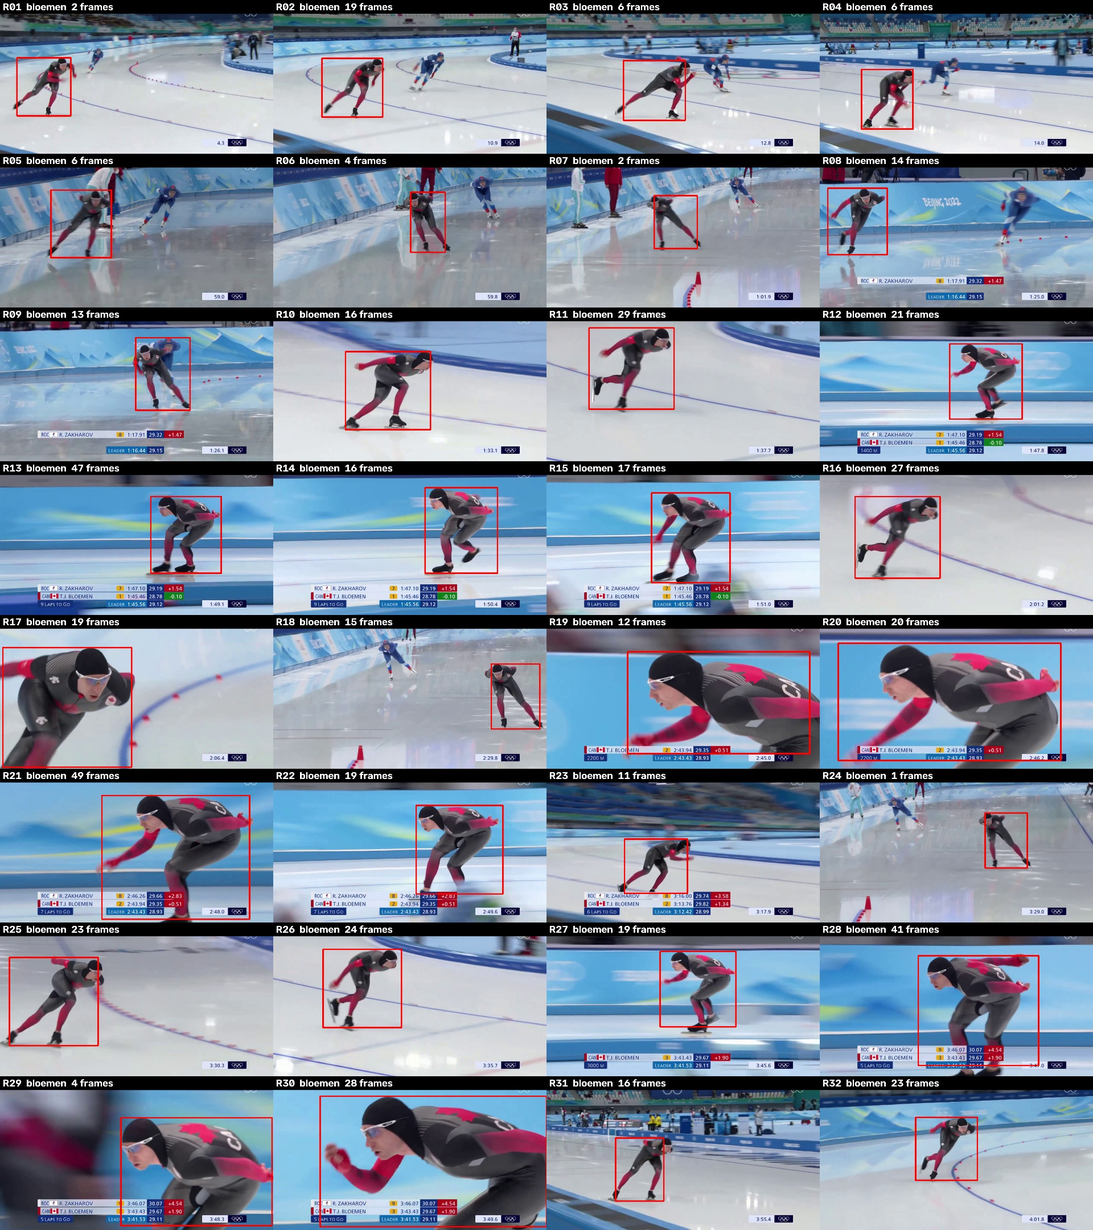
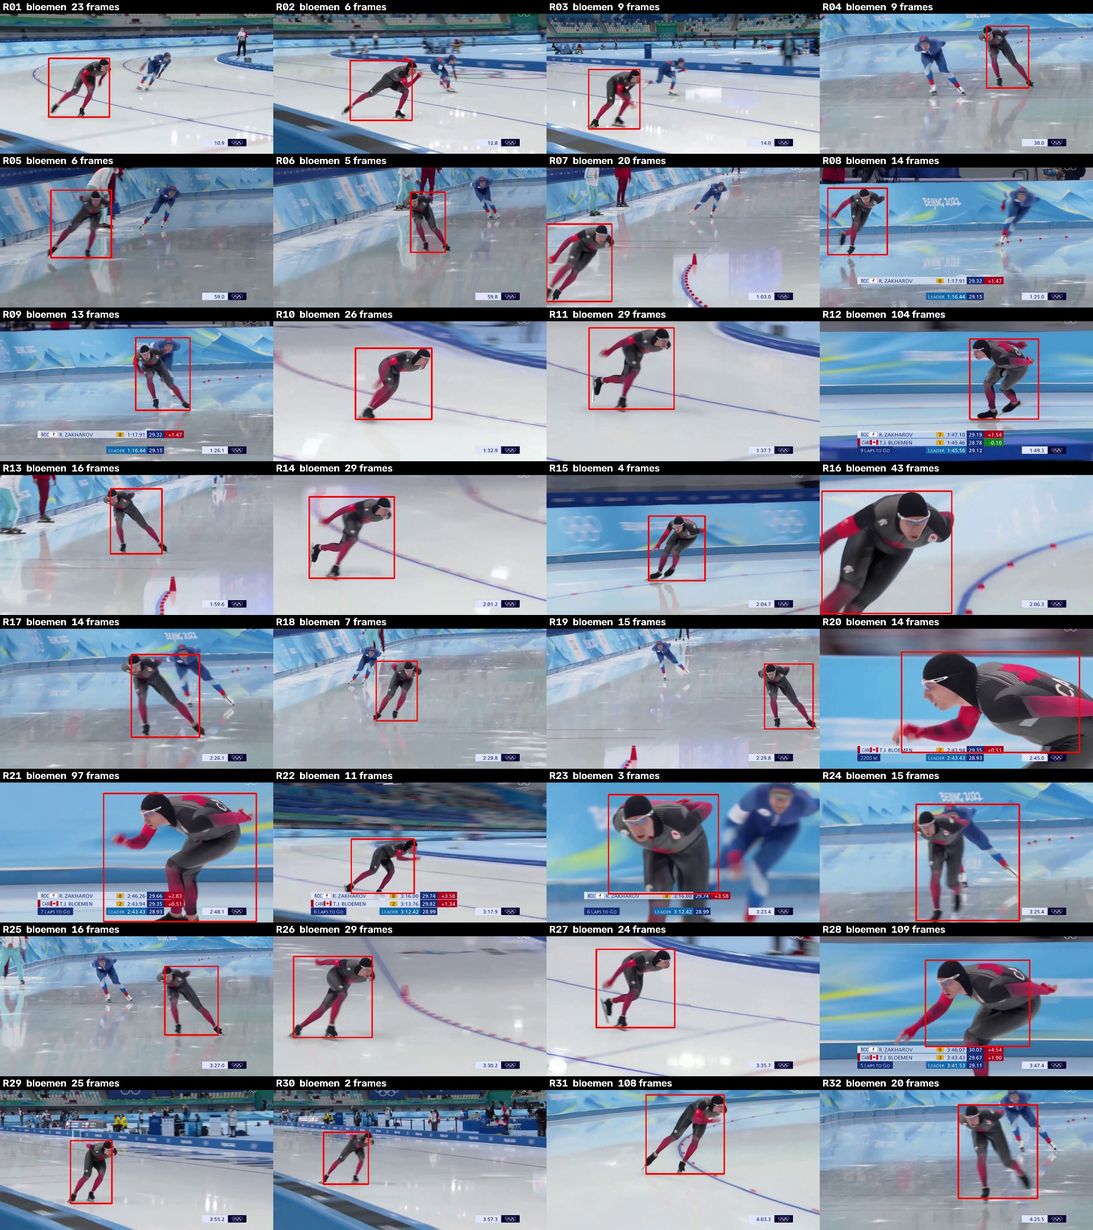
11/19: short identity gaps bridged (Bergsma test 168 to 697 frames), round 2 run once (89.8% on corner and straight scores averaged, target met, but only 16 straight frames; boundaries too little data), close-ups on this broadcast almost all in corners; next: check another broadcast; hours (130.0), 

diff --git a/phase_model.py b/phase_model.py
@@ -13,9 +13,16 @@ Scoring: share of frames correct (target 80%), and corner entries/exits found
 within 15 frames (target 85%; scorable only where the test frames cover 80%
 of the 15 frames each side).
 
+Round 2 rules (fixed 11/17 and 11/19, in the same doc): frames scored as the
+average of the corner and straight scores (target 85%); a boundary is also
+scorable with one side covered, and then found if no frame on that side more
+than 15 frames from the mark has the wrong label; stretches continue through
+misses of up to 5 frames (skater_pose.GAP).
+
 Usage:
     python -m phase_model --loso      # pair 10: train on one skater, test on the other (allowed for choices)
     python -m phase_model --round 1   # train on pair 10, test once on pair 09 (refuses to run twice)
+    python -m phase_model --round 2   # train on pair 10 and Bloemen, test once on pair 06
 """
 
 import os
@@ -34,16 +41,21 @@ DATA = {  # pair, skater -> (pose file, researcher's stretch check)
     ("pair10_vanderpoel", "Bart Swings"): ("phase9/pose_pair10_vanderpoel_swings_v1.csv", "phase9/runs_pair10_vanderpoel.csv"),
     ("pair10_vanderpoel", "Nils van der Poel"): ("phase9/pose_pair10_vanderpoel_poel_v1.csv", "phase9/runs_pair10_vanderpoel.csv"),
     ("pair09_bloemen", "Ted-Jan Bloemen"): ("phase9/pose_pair09_bloemen_bloemen.csv", "phase9/runs_pair09_bloemen.csv"),
+    ("pair06_bergsma", "Jorrit Bergsma"): ("phase9/pose_pair06_bergsma_bergsma.csv", "phase9/runs_pair06_bergsma.csv"),
+    ("pair06_bergsma", "Seitaro Ichinohe"): ("phase9/pose_pair06_bergsma_ichinohe.csv", "phase9/runs_pair06_bergsma.csv"),
 }
 ROUNDS = {1: {"train": [("pair10_vanderpoel", "Bart Swings"), ("pair10_vanderpoel", "Nils van der Poel")],
-              "test": [("pair09_bloemen", "Ted-Jan Bloemen")]}}
+              "test": [("pair09_bloemen", "Ted-Jan Bloemen")], "gap": 0},
+          2: {"train": [("pair10_vanderpoel", "Bart Swings"), ("pair10_vanderpoel", "Nils van der Poel"),
+                        ("pair09_bloemen", "Ted-Jan Bloemen")],
+              "test": [("pair06_bergsma", "Jorrit Bergsma"), ("pair06_bergsma", "Seitaro Ichinohe")], "gap": 5}}
 
 
-def load(pair, skater):
+def load(pair, skater, gap=0):
     pose, runs = DATA[(pair, skater)]
     marks = pd.read_csv(MARKS)
     marks = marks[(marks.pair == pair) & (marks.skater == skater) & (marks.use == "yes")]
-    d = usable(pd.read_csv(pose), marks)
+    d = usable(pd.read_csv(pose), marks, gap)
     r = pd.read_csv(runs)
     r = r[(r.skater == skater) & (r.identity == "ok")]
     keep = np.zeros(len(d), bool)
@@ -87,19 +99,29 @@ def smooth(frames, runs, pred):
     return np.concatenate(out)
 
 
-def boundaries(frames, pred, marks):
+def boundaries(frames, pred, marks, one_sided=False):
+    """Two-sided (round 1): both sides covered, found if the label changes the right way within TOL.
+    One-sided (round 2 adds): one side covered, found if no frame on that side beyond TOL has the wrong label."""
     have = dict(zip(frames, pred))
     rows = []
     for _, m in marks[marks.event.isin(["entry", "exit"])].iterrows():
         f = int(m.frame)
-        before = [have.get(x) for x in range(f - TOL, f)]
-        after = [have.get(x) for x in range(f, f + TOL)]
-        if sum(x is not None for x in before) < 0.8 * TOL or sum(x is not None for x in after) < 0.8 * TOL:
-            continue
         want = ("straight", "corner") if m.event == "entry" else ("corner", "straight")
-        seq = [have.get(x) for x in range(f - TOL, f + TOL + 1)]
-        found = any(seq[i] == want[0] and seq[i + 1] == want[1] for i in range(len(seq) - 1))
-        rows.append({"frame": f, "event": m.event, "found": found})
+        cov_b = sum(have.get(x) is not None for x in range(f - TOL, f)) >= 0.8 * TOL
+        cov_a = sum(have.get(x) is not None for x in range(f, f + TOL)) >= 0.8 * TOL
+        if cov_b and cov_a:
+            seq = [have.get(x) for x in range(f - TOL, f + TOL + 1)]
+            found = any(seq[i] == want[0] and seq[i + 1] == want[1] for i in range(len(seq) - 1))
+            rows.append({"frame": f, "event": m.event, "sides": 2, "found": found})
+        elif one_sided and (cov_b or cov_a):
+            # the covered side, out to the next mark: frames more than TOL from this mark must have that side's label
+            nxt = marks.frame[marks.frame > f].min() if cov_a else marks.frame[marks.frame < f].max()
+            span = range(f + TOL, int(nxt) if pd.notna(nxt) else f + 300) if cov_a else range(int(nxt) if pd.notna(nxt) else f - 300, f - TOL)
+            side = want[1] if cov_a else want[0]
+            labs = [have[x] for x in span if x in have]
+            if not labs:
+                continue
+            rows.append({"frame": f, "event": m.event, "sides": 1, "found": all(x == side for x in labs)})
     return pd.DataFrame(rows)
 
 
@@ -109,20 +131,39 @@ def fit(train):
     return HistGradientBoostingClassifier(random_state=0).fit(X, train.label, sample_weight=w), list(X.columns)
 
 
-def evaluate(model, cols, test, marks):
+def evaluate(model, cols, test, marks, one_sided=False):
     pred = model.predict(test[cols])
     sm = smooth(test.frame.values, test.run.values, pred)
-    acc = float((sm == test.label.values).mean())
-    b = boundaries(test.frame.values, sm, marks)
-    return {"frames": len(test), "frames_correct": round(acc, 3), "raw_correct": round(float((pred == test.label.values).mean()), 3),
-            "boundaries_scorable": len(b), "boundaries_found": int(b.found.sum()) if len(b) else 0,
-            "boundary_share": round(float(b.found.mean()), 3) if len(b) else None}
+    y = test.label.values
+    acc = float((sm == y).mean())
+    per = {lab: round(float((sm[y == lab] == lab).mean()), 3) if (y == lab).any() else None for lab in ("corner", "straight")}
+    b = boundaries(test.frame.values, sm, marks, one_sided)
+    return {"frames": len(test), "labels": {lab: int((y == lab).sum()) for lab in ("corner", "straight")},
+            "frames_correct": round(acc, 3), "corner_correct": per["corner"], "straight_correct": per["straight"],
+            "balanced_correct": round(np.mean([v for v in per.values() if v is not None]), 3),
+            "raw_correct": round(float((pred == y).mean()), 3),
+            "boundaries_scorable": len(b), "boundaries_two_sided": int((b.sides == 2).sum()) if len(b) else 0,
+            "boundaries_found": int(b.found.sum()) if len(b) else 0,
+            "boundary_share": round(float(b.found.mean()), 3) if len(b) else None,
+            "boundary_verdict": "too little data" if len(b) < 10 else ("met" if b.found.mean() >= 0.85 else "not met")}
 
 
-def build(keys):
+def pooled(rs):
+    """Test skaters together (a pair's skaters share frame numbers, so counts are added, not frames merged)."""
+    n = {lab: sum(r["labels"][lab] for r in rs) for lab in ("corner", "straight")}
+    per = {lab: round(sum((r[f"{lab}_correct"] or 0) * r["labels"][lab] for r in rs) / n[lab], 3) if n[lab] else None
+           for lab in ("corner", "straight")}
+    sc, fo = sum(r["boundaries_scorable"] for r in rs), sum(r["boundaries_found"] for r in rs)
+    return {"frames": sum(r["frames"] for r in rs), "labels": n, "corner_correct": per["corner"],
+            "straight_correct": per["straight"], "balanced_correct": round(np.mean([v for v in per.values() if v is not None]), 3),
+            "boundaries_scorable": sc, "boundaries_found": fo, "boundary_share": round(fo / sc, 3) if sc else None,
+            "boundary_verdict": "too little data" if sc < 10 else ("met" if fo / sc >= 0.85 else "not met")}
+
+
+def build(keys, gap=0):
     fs, ms = [], {}
     for pair, sk in keys:
-        d, marks = load(pair, sk)
+        d, marks = load(pair, sk, gap)
         f = features(d)
         f["skater"] = sk
         fs.append(f); ms[sk] = marks
@@ -143,12 +184,15 @@ def main():
         out = f"phase9/round{args.round}_result.json"
         if os.path.exists(out):
             raise SystemExit(f"{out} exists: round {args.round} was already run once")
-        train, _ = build(ROUNDS[args.round]["train"])
-        test, marks = build(ROUNDS[args.round]["test"])
+        cfg = ROUNDS[args.round]
+        train, _ = build(cfg["train"], cfg["gap"])
+        test, marks = build(cfg["test"], cfg["gap"])
         model, cols = fit(train)
         res = {"round": args.round, "train_frames": len(train)}
         for sk in test.skater.unique():
-            res[sk] = evaluate(model, cols, test[test.skater == sk], marks[sk])
+            res[sk] = evaluate(model, cols, test[test.skater == sk], marks[sk], one_sided=args.round >= 2)
+        if args.round >= 2:
+            res["all test skaters"] = pooled([res[sk] for sk in test.skater.unique()])
         json.dump(res, open(out, "w"), indent=2)
         print(json.dumps(res, indent=2))
 

diff --git a/skater_pose.py b/skater_pose.py
@@ -75,6 +75,7 @@ MAX_CANDS = 4        # largest candidate boxes per frame that get pose
 MIN_BOX_H = 60
 PAD = 0.15
 MIN_RUN = 15
+GAP = 5              # 11/19: misses of up to GAP frames do not break a stretch if the same person returns
 CHECK_EVERY = 300
 
 
@@ -104,14 +105,17 @@ def short(name):
     return name.split()[-1].lower()
 
 
-def usable(d, marks):
-    """Frames the phase model uses: inside the marked race, live, normal size, a steady track."""
+def usable(d, marks, gap=GAP):
+    """Frames the phase model uses: inside the marked race, live, normal size, a steady track
+    (MIN_RUN frames where the skater was found; misses of up to `gap` frames bridged, gap=0 as in round 1)."""
     from doublepush_measures import MIN_LEG_PX
     d = d.copy()
-    d["run"] = (d.track_id != d.track_id.shift()).cumsum()
-    d["run_len"] = d.groupby("run").frame.transform("size")
+    tid = d.track_id.ffill(limit=gap) if gap else d.track_id
+    d["run"] = (tid != tid.shift()).cumsum()
+    real = d.track_id.notna()
+    d["run_len"] = real.groupby(d.run).transform("sum")
     ok = d.frame.between(marks.frame.min(), marks.frame.max()) & d.live & (d.leg_px >= MIN_LEG_PX)
-    return d[ok & d.track_id.notna() & (d.run_len >= MIN_RUN)]
+    return d[ok & real & (d.run_len >= MIN_RUN)]
 
 
 def run_sheet(pair):

diff --git a/docs/CAPABILITIES_PHASE9.md b/docs/CAPABILITIES_PHASE9.md
@@ -15,7 +15,7 @@
 > **9B:** How do elite long track skaters pace their races across distances,
 > skaters and seasons, measured from lap times read from race broadcasts?
 
-## Status (11/18): Pacing database has all 12 skaters of the Beijing 2022 5000 m (154 laps, 2 finishes missing, all checked). Label rules and model targets fixed. Pair 10 marked: Swings (start and 15 corners usable) and van der Poel (whole race). Identity confirmed per stretch (2,209 training frames). Bloemen (pair 09, round 1 test race) marked. Old labels audited (89.8% of frames agree). Round 1 run once: 98.8% of frames (target 80% met, but 92% of test frames were corners; straights 88.9%); boundaries too little data. Round 2 rules fixed; test pair 06 marked (Bergsma whole race, Ichinohe to about lap 9), identity check pending.
+## Status (11/19): Pacing database has all 12 skaters of the Beijing 2022 5000 m (154 laps, 2 finishes missing, all checked). Label rules and model targets fixed. Pair 10 marked: Swings (start and 15 corners usable) and van der Poel (whole race). Identity confirmed per stretch (2,209 training frames). Bloemen (pair 09, round 1 test race) marked. Old labels audited (89.8% of frames agree). Round 1 run once: 98.8% of frames (target 80% met, but 92% of test frames were corners; straights 88.9%); boundaries too little data. Round 2 run once: 89.8% (average of corner and straight scores, target 85% met) but only 16 straight frames; boundaries too little data. Next: another broadcast for straight close-ups.
 
 ## Why This Phase
 - **The same problem kept returning.** Automatic corner/straight detection
@@ -196,6 +196,27 @@ tested on Bloemen (1,124 frames, identity confirmed on all 51 stretches).
   cutoff and every miss restarts the 15-frame steady-track count. Allowing
   gaps of up to 5 frames would give Bergsma 697 and Bloemen 1,635 (from
   1,174). To be decided by the researcher before round 2 is run.
+- **Decided 11/19, before round 2:** a stretch continues through misses of up
+  to 5 frames (1/6 s) when the same tracked person is found again; the missed
+  frames are not used, and a stretch needs 15 frames where the skater was
+  actually found. Stretch sheets for pair 06 and pair 09 are remade under this
+  rule and checked again by the researcher; round 1's stretches are kept as
+  its record.
+
+**Round 2 result (11/19, run once):** trained on pair 10 and Bloemen (3,552
+frames), tested on Bergsma (657 frames; all 33 stretches confirmed). Ichinohe
+had no test data: all 9 of his stretches had the box on Bergsma.
+- Frames: average of corner and straight scores **89.8%**, target 85% **met**.
+  Corners 98.3% (630 of 641), straights 81.2% (13 of **16**). The straight half
+  rests on about half a second of one straight, so straight detection is
+  not really tested.
+- Boundaries: 3 scorable (all one-sided), all found; **too little data**.
+- **Across rounds 1 and 2:** corners 98-99% on two unseen skaters. Close-ups
+  on this broadcast are almost all in corners (1,034 vs 90 and 641 vs 16
+  frames), so straights and boundaries cannot be tested well at the 150 px
+  size rule.
+- **Round 3 direction (decided 11/19):** check whether another broadcast films
+  straights closer before changing the size rule or accepting the limit.
 
 ### 9c: Set-Down Detection Inside the Model
 - Re-test the Phase 8 counter only inside frames the model calls straight.
@@ -278,6 +299,9 @@ tested on Bloemen (1,124 frames, identity confirmed on all 51 stretches).
 | 11/18 | Ichinohe exits with no entry (entry off camera) would have made a corner count as straight | Frames between marks that do not fit together left unlabelled |
 | 11/18 | Two Ichinohe entries marked when he came back into view mid-corner | Flagged unclear, not used |
 | 11/18 | Bergsma's orange reads as hue 3-4 on this broadcast, outside the orange range | Range widened to 0-17; Bergsma found in 25% of frames, up from 13% |
+| 11/19 | Bergsma's identity flickered near the colour cutoff, so most stretches never reached 15 frames in a row | Stretches continue through misses of up to 5 frames |
+| 11/19 | Ichinohe's white colour check picked up Bergsma in all 9 stretches | Ichinohe excluded; no test data |
+| 11/19 | Close-ups almost all in corners, so straights and boundaries barely appear in tests | Look for broadcasts that film straights closer |
 
 ## Rounds (Running Log)
 

diff --git a/docs/HOURS.md b/docs/HOURS.md
@@ -89,4 +89,5 @@
 | **11/16** | Wrote down the round 1 setup for the phase model before training (training and test frames, inputs, model, scoring, one run only). Built the model and checked it on pair 10 alone by training on one skater and testing on the other: 82.9% of frames correct on Swings when trained on van der Poel, 69.5% the other way round (trained on only 397 frames). Only 2-3 corner boundaries per skater can be scored, because close-ups rarely cover both sides of an entry or exit, so the boundary target may come out as too little data. Changed the skater identity check to read suit colour only inside the torso, and restarted tracking of the test race. | 0.5 hrs |
 | **11/17** | Confirmed skater identity on all 51 of Bloemen's stretches and ran round 1 of the phase model once (trained on pair 10, tested on Bloemen): 98.8% of frames correct (target 80% met), but 92% of the test frames were corners, so always answering corner would score 92%; the model got 88.9% of straight frames right (80 of 90, from only 8 straights) and 99.6% of corner frames. No corner boundary could be scored (close-ups never covered both sides of an entry or exit), so the boundary target is reported as too little data. Fixed the round 2 changes before running it: frames scored as the average of the corner and straight scores, boundaries scorable with one side covered, Bloemen added to training and a new test pair (Bergsma and Ichinohe, pair 06). | 1.0 hr |
 | **11/18** | Marked both skaters of the round 2 test pair (Beijing pair 06): Bergsma's whole race (marked finish 0.2 s from the official time; one corner entry keyed as a start and corrected), and Ichinohe to about lap 9, leaving out entries he was off camera for and the late laps where he was only shown small. Labels are now left out between marks that do not fit together (an exit after an exit), instead of being guessed; this changed only Ichinohe's labels. Two of Ichinohe's entries, marked when he came back into view partway through a corner, were flagged unclear. Found that Bergsma's orange read as a redder hue on this broadcast and fixed the colour range (Bergsma found in 25% of frames, up from 13%). | 1.5 hrs |
-| **Total** | **Cumulative Engineering Time** | **129.0 hrs** |
+| **11/19** | Decided to let a tracked stretch continue through misses of up to 5 frames (1/6 s), which raised Bergsma's test frames from 168 to 697, and checked the remade stretch sheets: all 33 of Bergsma's and all 53 of Bloemen's were right, while all 9 of Ichinohe's had the box on Bergsma, so Ichinohe has no test data. Ran round 2 once (trained on pair 10 and Bloemen, tested on Bergsma): the average of the corner and straight scores was 89.8% (target 85% met), but the straights were only 16 frames, so straight detection is not really tested; 3 boundaries were scorable (too little data). Across both rounds, close-ups on this broadcast are almost all in corners. Decided to check whether another broadcast films straights closer before changing any rules. | 1.0 hr |
+| **Total** | **Cumulative Engineering Time** | **130.0 hrs** |

diff --git a/docs/JOURNAL.md b/docs/JOURNAL.md
@@ -1350,3 +1350,20 @@
   - The Phase 6 detector comparison needs torso and knee angles, which the per-skater pose does not save yet; they will be added at the next pose run.
 
 - **Result:** both test skaters marked; stretch sheets ready for the identity check. Next: the researcher's stretch check for pair 06, then round 2.
+
+## 11/19: Round 2 of the Phase Model
+
+- **Action Taken:**
+  - Decided before round 2 that a stretch continues through misses of up to 5 frames (1/6 s) when the same tracked person is found again; missed frames are not used, and a stretch still needs 15 frames where the skater was found. Bergsma's orange flickered around the colour cutoff, so every miss had restarted the count.
+  - Remade the stretch sheets for pair 06 and Bloemen under that rule (round 1's stretches kept as its record) and the researcher checked them: Bergsma 33 of 33 right (697 frames), Bloemen 53 of 53 right (1,635 frames, up from 1,174), Ichinohe 0 of 9 (the box was on Bergsma in all of them).
+  - Added round 2's scoring to `phase_model.py` (average of corner and straight scores, one-sided boundaries, test skaters pooled by adding counts) and ran round 2 once: trained on pair 10 and Bloemen (3,552 frames), tested on Bergsma (657 frames).
+
+- **Problems, Challenges & Decisions:**
+  - **Round 2: 89.8% (average of corner and straight scores), target 85% met.** Corners 630 of 641 (98.3%), straights 13 of 16 (81.2%). Sixteen straight frames is about half a second of one straight, so half of the score rests on very little; the result shows the model is very good at corners, not that it recognises straights.
+  - **Boundaries: 3 scorable, all 3 found, reported as too little data.**
+  - **Across both rounds, the footage limits the test:** close-ups on this broadcast are almost all in corners (round 1: 1,034 corner and 90 straight frames; round 2: 641 and 16). The camera goes close as skaters lean into corners and wide on the straights, so at the 150 px size rule straights rarely appear and corner boundaries are never in close-up on both sides.
+  - Ichinohe's white colour check picked up Bergsma (white details or bright ice), so Ichinohe has no test data.
+  - The pair 10 swap test under the new scoring showed straights weaker than corners before round 2 was run (Swings: corners 100%, straights 42%); nothing was changed because of it.
+  - **Decision for round 3:** first check whether another broadcast (Inzell, Calgary) films straights closer, before changing the size rule or accepting the limit.
+
+- **Result:** round 2 met its frame target on paper, with the corner result strong (98-99% on two unseen skaters across both rounds) and straights barely tested. Next: look at another broadcast for straight close-ups.

diff --git a/README.md b/README.md
@@ -117,7 +117,7 @@ Controlled fixed-camera footage, multi-camera 3D and inline skating remain futur
 ### Phase 9: Skating Phase Model & Pacing Database (In Progress, 11/9–)
 > *To what extent can one model, trained on hand labels gathered across Phases 4-9, label every frame of a long track race broadcast as start, straightaway or corner, and find each stroke set-down, accurately enough on races it has never seen to replace hand labelling? And how do elite long track skaters pace their races across distances, skaters and seasons?*
 
-- **Plan (11/9):** a long-running phase in rounds. Each newly labelled race is first a test the model has never seen, then joins its training data. Lap times for both skaters in each pair are read from race broadcasts into one pacing database. Combines labels and tools from Phases 4-8. Full detail in `docs/CAPABILITIES_PHASE9.md`. Pacing database has all 12 skaters of the Beijing 2022 5000 m (11/12, checked); race phase marking started with `mark_phases.py`; label rules and model targets fixed 11/13 before any model; pair 10 marked for both skaters and old labels audited (11/14); identity confirmed per stretch and the round 1 test race marked (11/15). Round 1 setup fixed before training (11/16). Round 1 (11/17): 98.8% of frames on an unseen skater, but a test mostly of corners; boundaries not testable; round 2 rules fixed. Round 2 test pair marked (11/18).
+- **Plan (11/9):** a long-running phase in rounds. Each newly labelled race is first a test the model has never seen, then joins its training data. Lap times for both skaters in each pair are read from race broadcasts into one pacing database. Combines labels and tools from Phases 4-8. Full detail in `docs/CAPABILITIES_PHASE9.md`. Pacing database has all 12 skaters of the Beijing 2022 5000 m (11/12, checked); race phase marking started with `mark_phases.py`; label rules and model targets fixed 11/13 before any model; pair 10 marked for both skaters and old labels audited (11/14); identity confirmed per stretch and the round 1 test race marked (11/15). Round 1 setup fixed before training (11/16). Round 1 (11/17): 98.8% of frames on an unseen skater, but a test mostly of corners; boundaries not testable; round 2 rules fixed. Round 2 test pair marked (11/18). Round 2 (11/19): 89.8% on corner and straight scores averaged (target met), but only 16 straight frames; close-ups on this broadcast are almost all in corners.
 ---
 
 ## 📊 Verified Pipeline & Dashboard Capabilities

diff --git a/docs/README.md b/docs/README.md
@@ -117,7 +117,7 @@ Controlled fixed-camera footage, multi-camera 3D and inline skating remain futur
 ### Phase 9: Skating Phase Model & Pacing Database (In Progress, 11/9–)
 > *To what extent can one model, trained on hand labels gathered across Phases 4-9, label every frame of a long track race broadcast as start, straightaway or corner, and find each stroke set-down, accurately enough on races it has never seen to replace hand labelling? And how do elite long track skaters pace their races across distances, skaters and seasons?*
 
-- **Plan (11/9):** a long-running phase in rounds. Each newly labelled race is first a test the model has never seen, then joins its training data. Lap times for both skaters in each pair are read from race broadcasts into one pacing database. Combines labels and tools from Phases 4-8. Full detail in `docs/CAPABILITIES_PHASE9.md`. Pacing database has all 12 skaters of the Beijing 2022 5000 m (11/12, checked); race phase marking started with `mark_phases.py`; label rules and model targets fixed 11/13 before any model; pair 10 marked for both skaters and old labels audited (11/14); identity confirmed per stretch and the round 1 test race marked (11/15). Round 1 setup fixed before training (11/16). Round 1 (11/17): 98.8% of frames on an unseen skater, but a test mostly of corners; boundaries not testable; round 2 rules fixed. Round 2 test pair marked (11/18).
+- **Plan (11/9):** a long-running phase in rounds. Each newly labelled race is first a test the model has never seen, then joins its training data. Lap times for both skaters in each pair are read from race broadcasts into one pacing database. Combines labels and tools from Phases 4-8. Full detail in `docs/CAPABILITIES_PHASE9.md`. Pacing database has all 12 skaters of the Beijing 2022 5000 m (11/12, checked); race phase marking started with `mark_phases.py`; label rules and model targets fixed 11/13 before any model; pair 10 marked for both skaters and old labels audited (11/14); identity confirmed per stretch and the round 1 test race marked (11/15). Round 1 setup fixed before training (11/16). Round 1 (11/17): 98.8% of frames on an unseen skater, but a test mostly of corners; boundaries not testable; round 2 rules fixed. Round 2 test pair marked (11/18). Round 2 (11/19): 89.8% on corner and straight scores averaged (target met), but only 16 straight frames; close-ups on this broadcast are almost all in corners.
 ---
 
 ## 📊 Verified Pipeline & Dashboard Capabilities
